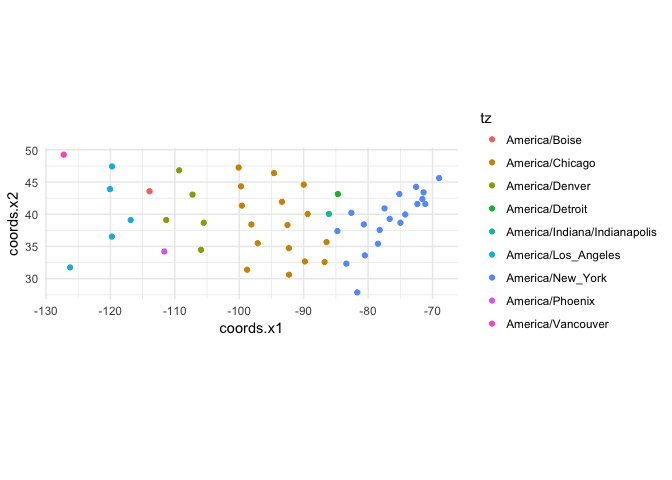
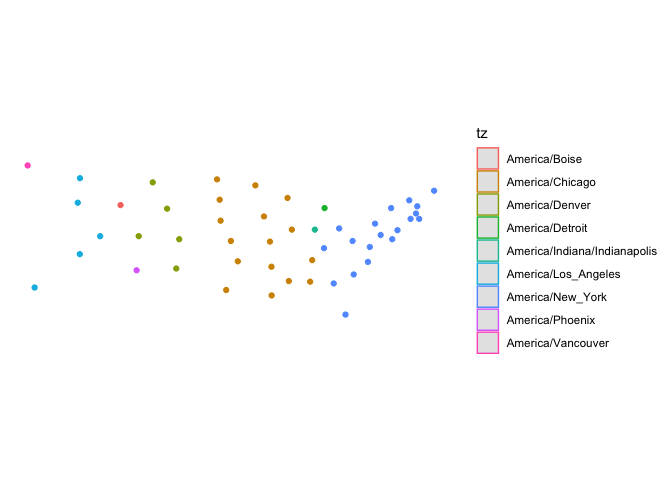
Update README

diff --git a/README.md b/README.md
@@ -1,32 +1,56 @@
 
 <!-- README.md is generated from README.Rmd. Please edit that file -->
-[![Travis-CI Build Status](https://travis-ci.org/ateucher/lutz.svg?branch=master)](https://travis-ci.org/ateucher/lutz) [![AppVeyor Build Status](https://ci.appveyor.com/api/projects/status/github/ateucher/lutz?branch=master&svg=true)](https://ci.appveyor.com/project/ateucher/lutz) [![Coverage Status](https://img.shields.io/codecov/c/github/ateucher/lutz/master.svg)](https://codecov.io/github/ateucher/lutz?branch=master)
 
-lutz (look up timezones)
-========================
+[![Travis-CI Build
+Status](https://travis-ci.org/ateucher/lutz.svg?branch=master)](https://travis-ci.org/ateucher/lutz)
+[![AppVeyor Build
+Status](https://ci.appveyor.com/api/projects/status/github/ateucher/lutz?branch=master&svg=true)](https://ci.appveyor.com/project/ateucher/lutz)
+[![Coverage
+Status](https://img.shields.io/codecov/c/github/ateucher/lutz/master.svg)](https://codecov.io/github/ateucher/lutz?branch=master)
 
-Input latitude and longitude values or an `sf` or `sfc` POINT object and get back the timezone in which they exist. This package uses the **V8** package to access the [`tz-lookup.js` javascript library](https://github.com/darkskyapp/tz-lookup/).
+# lutz (look up timezones)
 
-Installation
-------------
+Input latitude and longitude values or an `sf/sfc` POINT object and get
+back the timezone in which they exist. Two methods are implemented. One
+is very fast and uses the *V8* package to access the [`tz-lookup.js`
+javascript library](https://github.com/darkskyapp/tz-lookup/). However,
+speed comes at the cost of accuracy - near time zone borders away from
+populated centres there is a chance that it will return the incorrect
+time zone.
 
-You can install lutz from github with:
+The other method is slower but more accurate - it uses the sf package to
+intersect points with a detailed map of time zones from
+[here](https://github.com/evansiroky/timezone-boundary-builder).
+
+## Installation
+
+You can install lutz from CRAN with:
+
+``` r
+install.packages("lutz")
+```
+
+Or you can install the development version from github with:
 
 ``` r
 # install.packages("devtools")
 devtools::install_github("ateucher/lutz")
 ```
 
-Example
--------
+## Examples
 
-There are only two functions in this package: `tz_lookup()` which works with both `sf/sfc` and `SpatialPoints` objects, and `tz_lookup_coords` for looking up lat/long pairs.
+There are only two functions in this package: `tz_lookup()` which works
+with both `sf/sfc` and `SpatialPoints` objects, and `tz_lookup_coords`
+for looking up lat/long pairs. Use the `method` argument to choose the
+`"fast"` or `"accurate"` method.
 
 ### With coordinates. They must be lat/long in decimal degrees:
 
 ``` r
 library(lutz)
-tz_lookup_coords(49.5, -123.5)
+tz_lookup_coords(49.5, -123.5, method = "fast")
+#> [1] "America/Vancouver"
+tz_lookup_coords(49.5, -123.5, method = "accurate")
 #> [1] "America/Vancouver"
 
 tz_lookup_coords(lat = c(48.9, 38.5, 63.1, -25), lon = c(-123.5, -110.2, -95.0, 130))
@@ -48,6 +72,7 @@ state_centers_sf <- st_sf(st_sfc(pts))
 
 # Use tz_lookup_sf to find the timezones
 state_centers_sf$tz <- tz_lookup(state_centers_sf)
+state_centers_sf$tz <- tz_lookup(state_centers_sf, method = "accurate")
 
 ggplot() + 
   geom_sf(data = state_centers_sf, aes(colour = tz)) + 
@@ -55,7 +80,7 @@ ggplot() +
   coord_sf(datum = NA)
 ```
 
-![](tools/readme/unnamed-chunk-3-1.png)
+![](tools/readme/unnamed-chunk-4-1.png)<!-- -->
 
 ### With `SpatialPoints` objects:
 
@@ -72,4 +97,4 @@ ggplot(cbind(as.data.frame(coordinates(state_centers_sp)), tz = state_centers_sp
   theme_minimal()
 ```
 
-![](tools/readme/unnamed-chunk-4-1.png)
+![](tools/readme/unnamed-chunk-5-1.png)<!-- -->
